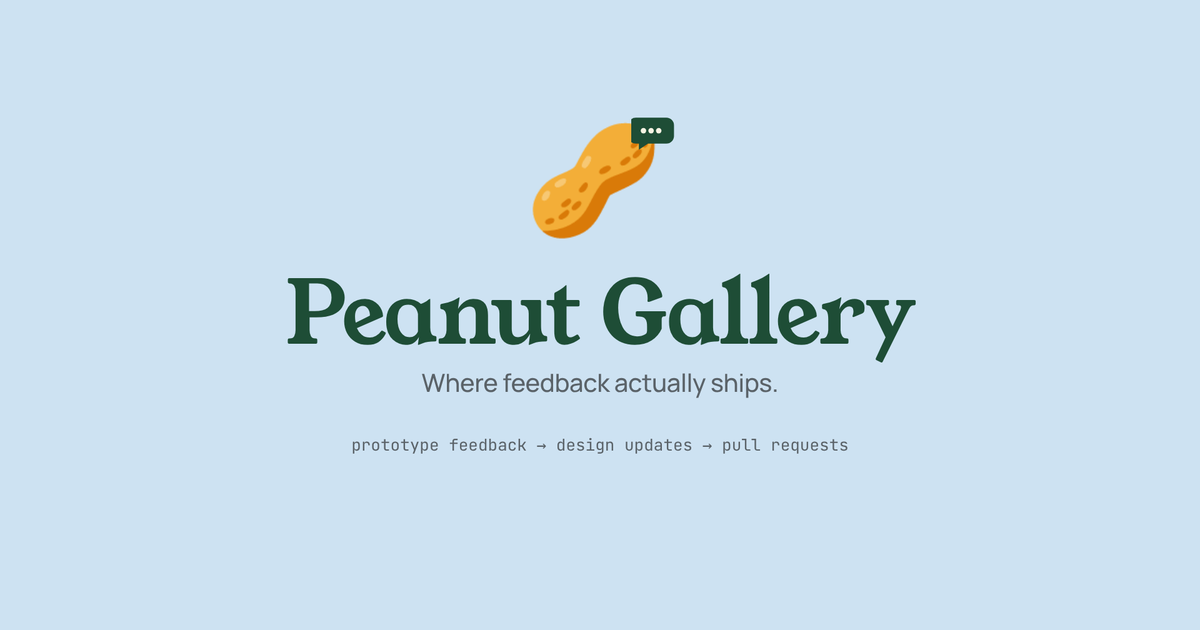
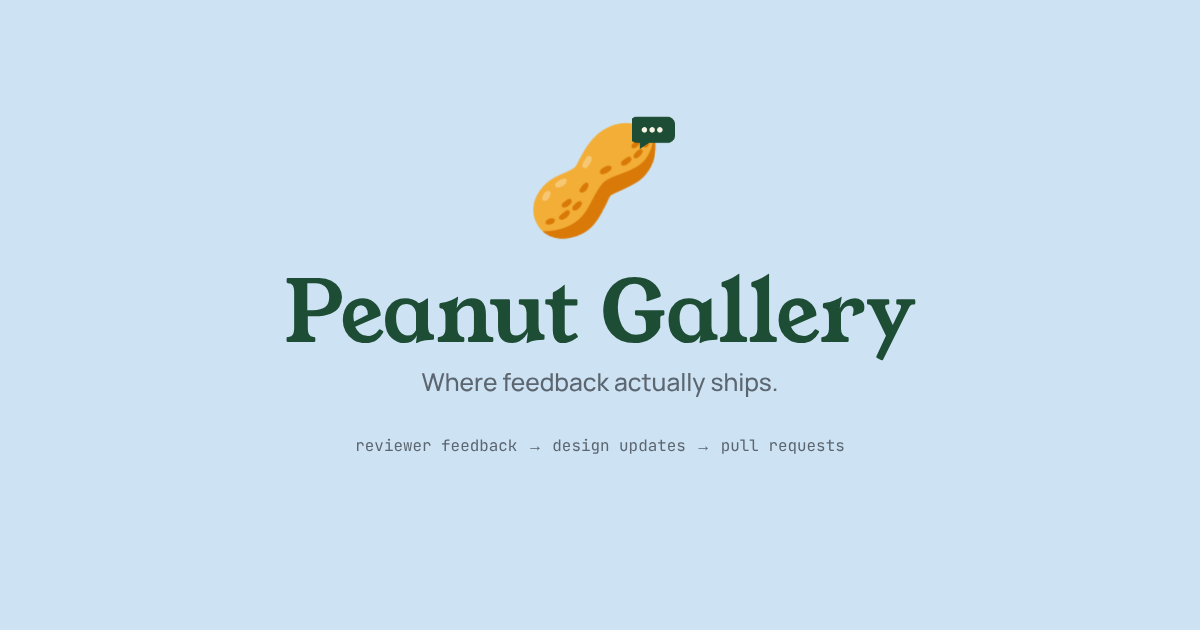
Wording: "prototype or web app"; real-Claude-ready React harness
- README, demo site (copy, share image, install step) and npm descriptions say
  "prototype or web app"; the demo's flow line is "reviewer feedback → design
  updates → pull requests".
- Issue titles read "Feedback: N comments on /page" (was "Prototype
  feedback: …"); the feedback label description matches.
- e2e-react: find each change by the note it addresses, so the run also works
  with real Claude (different titles, an extra proposal).

Claude-Session: https://claude.ai/code/session_012KFMsrXS16bKBZoZYvhYa8

diff --git a/demo/index.html b/demo/index.html
@@ -4,9 +4,9 @@
 <meta charset="utf-8">
 <meta name="viewport" content="width=device-width, initial-scale=1">
 <title>Peanut Gallery demo</title>
-<meta name="description" content="Comment on a prototype, get a pull request back. Try the Peanut Gallery widget on a sample checkout and follow one round of feedback to a merged change.">
+<meta name="description" content="Comment on your prototype or web app, get a pull request back. Try the Peanut Gallery widget on a sample checkout and follow one round of feedback to a merged change.">
 <meta property="og:title" content="Peanut Gallery: where feedback actually ships">
-<meta property="og:description" content="Reviewers pin notes to a live prototype. Claude turns them into pull requests with before and after screenshots, and reviewers vote.">
+<meta property="og:description" content="Reviewers pin notes to your prototype or web app. Claude turns them into pull requests with before and after screenshots, and reviewers vote.">
 <meta property="og:image" content="https://pixelatlarge.github.io/peanut-gallery/assets/og.png">
 <meta property="og:url" content="https://pixelatlarge.github.io/peanut-gallery/">
 <meta name="twitter:card" content="summary_large_image">
@@ -224,7 +224,7 @@
       <img class="mark" src="assets/peanut-mark.png" alt="" width="272" height="224">
       <h1>Peanut Gallery</h1>
       <p class="tagline">Where feedback actually ships.</p>
-      <p class="flow">prototype feedback → design updates → pull requests</p>
+      <p class="flow">reviewer feedback → design updates → pull requests</p>
       <p class="lead">Reviewers pin notes to the real page. Claude groups the feedback, makes the change in your repo, and opens a pull request with before and after screenshots. Then reviewers vote.</p>
       <ol class="stepnav" aria-label="The five steps on this page">
         <li><a href="#notes"><span class="n">01</span>Leave notes</a></li>
@@ -268,7 +268,7 @@
       <div class="content">
         <div class="card issue" aria-live="polite">
           <header>
-            <h3><span id="issue-title">Prototype feedback</span> <span class="num">#34</span></h3>
+            <h3><span id="issue-title">Feedback</span> <span class="num">#34</span></h3>
             <div class="by"><span class="open">Open</span><span>opened via Peanut Gallery</span><span class="lbl root">peanut-gallery</span><span class="lbl fb">peanut-gallery:feedback</span></div>
           </header>
           <div class="md" id="issue-body"></div>
@@ -391,7 +391,7 @@
 
     <section class="finale" id="install" aria-labelledby="h-install">
       <img class="mark" src="assets/peanut-mark.png" alt="" width="272" height="224">
-      <h2 id="h-install">Try it on your prototype</h2>
+      <h2 id="h-install">Try it on your prototype or web app</h2>
       <p class="tagline">Add one script tag. Run one command.</p>
       <div class="codes">
         <div class="code">
@@ -399,7 +399,7 @@
           <code>npm i -D peanut-gallery &amp;&amp; npx peanut-gallery init</code>
         </div>
         <div class="code">
-          <div class="lab"><span>2 · In the prototype</span><button class="copy" type="button">Copy</button></div>
+          <div class="lab"><span>2 · In your prototype or app</span><button class="copy" type="button">Copy</button></div>
           <code>&lt;script src="https://unpkg.com/@pixelatlarge/peanut-gallery-widget/dist/peanut-gallery.global.js"
         data-repo="you/your-repo" data-activation="query"&gt;&lt;/script&gt;</code>
         </div>

diff --git a/packages/cli/src/commands/init.ts b/packages/cli/src/commands/init.ts
@@ -64,7 +64,7 @@ export async function initCommand(opts: { yes?: boolean; repo?: string; prototyp
 
   await ensureLabels(repo, [
     { name: LABELS.root, color: '1E4D36', description: 'Created by peanut-gallery' },
-    { name: LABELS.feedback, color: 'EAC26C', description: 'Prototype feedback captured with the peanut-gallery widget' },
+    { name: LABELS.feedback, color: 'EAC26C', description: 'Feedback captured with the peanut-gallery widget' },
     { name: LABELS.proposal, color: '6C8EBD', description: 'A peanut-gallery proposal / PR exists for this feedback' },
     { name: LABELS.accepted, color: '0F7B52', description: 'Reviewers preferred the "after"' },
     { name: LABELS.rejected, color: 'A5B0B6', description: 'Reviewers preferred the "before"' },

diff --git a/demo/src/main.ts b/demo/src/main.ts
@@ -58,7 +58,7 @@ let current = example as unknown as ReviewSession;
 function renderIssue(session: ReviewSession) {
   current = session;
   const { title, body } = sessionToIssue({ ...session, author: session.author ?? 'You' });
-  $('#issue-title').textContent = session.annotations.length ? title : 'Prototype feedback: no notes yet';
+  $('#issue-title').textContent = session.annotations.length ? title : 'Feedback: no notes yet';
   $('#issue-body').innerHTML = session.annotations.length
     ? renderIssueMarkdown(body)
     : '<p>Add a note on the checkout above and it appears here.</p>';

diff --git a/packages/core/src/issue-format.ts b/packages/core/src/issue-format.ts
@@ -4,7 +4,7 @@ import { ISSUE_BLOCK_LANG, stepLabel, type Annotation, type ReviewSession } from
 export function sessionToIssue(session: ReviewSession): { title: string; body: string } {
   const n = session.annotations.length;
   const page = safePath(session.annotations[0]?.pageUrl ?? session.prototypeUrl);
-  const title = `Prototype feedback: ${n} comment${n === 1 ? '' : 's'} on ${page}`;
+  const title = `Feedback: ${n} comment${n === 1 ? '' : 's'} on ${page}`;
 
   const lines: string[] = [];
   lines.push(`**Prototype:** ${session.prototypeUrl}`);

diff --git a/packages/core/src/core.test.ts b/packages/core/src/core.test.ts
@@ -74,7 +74,7 @@ const session: ReviewSession = {
 describe('issue format', () => {
   it('round-trips a session through an issue body', () => {
     const { title, body } = sessionToIssue(session);
-    expect(title).toBe('Prototype feedback: 1 comment on /checkout');
+    expect(title).toBe('Feedback: 1 comment on /checkout');
     expect(body).toContain('### 1. [visual] This button is too small');
     expect(issueToSession(body)).toEqual(session);
   });

diff --git a/README.md b/README.md
@@ -6,7 +6,7 @@
 
 https://github.com/user-attachments/assets/4dc13dca-2f3b-479b-955e-1d63bf59098f
 
-Annotate a hosted prototype → feedback lands in GitHub Issues → Claude turns it into concrete proposals, implements each on a branch, captures **before / after**, asks reviewers which they prefer, and opens a PR per change.
+Annotate your prototype or web app → feedback lands in GitHub Issues → Claude turns it into concrete proposals, implements each on a branch, captures **before / after**, asks reviewers which they prefer, and opens a PR per change.
 
 ```
 reviewer (browser)            your repo (CLI)                       GitHub
@@ -22,7 +22,7 @@ click element, write note ─▶  issue w/ selector+text+page   ◀──── 
                                 votes     ─ tally reactions/replies → label accepted/rejected
 ```
 
-| Reviewers annotate the live prototype | Each change ships with a before / after | Not sold? Generate options |
+| Reviewers annotate the live page | Each change ships with a before / after | Not sold? Generate options |
 | --- | --- | --- |
 | ![Widget](docs/images/widget.png) | ![Before and after](docs/images/before-after.png) | ![Options](docs/images/options.png) |
 
@@ -32,7 +32,7 @@ Three packages, one CLI:
 | --- | --- |
 | `@pixelatlarge/peanut-gallery-widget` | Drop-in annotation layer (script tag or React). Shadow-DOM UI, pins attached to DOM elements, persists across pages, submits to GitHub. |
 | `@pixelatlarge/peanut-gallery-relay` | Optional one-file serverless function that creates issues with a server-held token (one-click submit, reviewers don't need GitHub). |
-| `peanut-gallery` (CLI) | Runs in the prototype repo: `init · pull · interpret · apply · review · votes · compare`. |
+| `peanut-gallery` (CLI) | Runs in your repo: `init · pull · interpret · apply · review · votes · compare`. |
 | `@pixelatlarge/peanut-gallery-core` | Shared types, robust element anchoring, issue body format. |
 
 **What you need — and what you don't**
@@ -48,7 +48,7 @@ Three packages, one CLI:
 
 The demo is live at **https://pixelatlarge.github.io/peanut-gallery/** and redeploys on every push to `main`. To build it yourself, `npm run demo:build` builds a static demo into `demo/dist`: a sample checkout with the real widget, a live preview of the GitHub issue your notes create, and the before/after, vote and options steps from a recorded real-Claude run. Deploy that folder to any static host (GitHub Pages, Netlify, Vercel). Nothing in the demo calls Claude or GitHub.
 
-## 1. Add the widget to the prototype
+## 1. Add the widget to your prototype or app
 
 **Script tag (any page):**
 
@@ -58,7 +58,7 @@ The demo is live at **https://pixelatlarge.github.io/peanut-gallery/** and redep
         data-activation="query"></script>
 ```
 
-Open the prototype with `?peanut` in the URL. A toolbar appears: **Comment** → click any element → write a note (optionally tag it bug / copy / layout / visual / flow / question / praise). Pins are numbered and re-attach to their element on reload, resize and reorder. **Review** lists everything; **Submit to GitHub** opens a prefilled issue.
+Open the page with `?peanut` in the URL. A toolbar appears: **Comment** → click any element → write a note (optionally tag it bug / copy / layout / visual / flow / question / praise). Pins are numbered and re-attach to their element on reload, resize and reorder. **Review** lists everything; **Submit to GitHub** opens a prefilled issue.
 
 **React:**
 
@@ -124,7 +124,7 @@ export default createRelayHandler({
 
 Then `data-relay-url="https://…/api/peanut-gallery"` on the widget.
 
-## 3. Run the loop in the prototype repo
+## 3. Run the loop in your repo
 
 ```bash
 npm i -D peanut-gallery
@@ -260,7 +260,7 @@ SANDBOX=you/empty-repo node scripts/e2e-react.mjs             # the loop on a Re
 
 - `issue-url` mode truncates very long sessions to fit GitHub's URL limit (~40 short notes); use the relay for big sessions.
 - Screenshots are desktop-only (`screenshot.width`); mobile viewports per proposal are a TODO.
-- Prototypes that need auth: set `prototypeUrl` to a local server, or extend `captureShots` with a storage state.
+- Apps that need a login: set `prototypeUrl` to a local server, or extend `captureShots` with a storage state.
 - Screenshots replay the reviewer's clicks to reach modals and menus, but not typing: a state that needs form input (step 3 of a checkout) falls back to the full page and says so.
 - Relay-mode shared pins (see teammates' comments while annotating, +1 instead of re-writing) are the planned next pass.
 - `variants` publishes the combined image to a `peanut-gallery/assets` branch so it can be embedded in issue comments; delete that branch any time.
